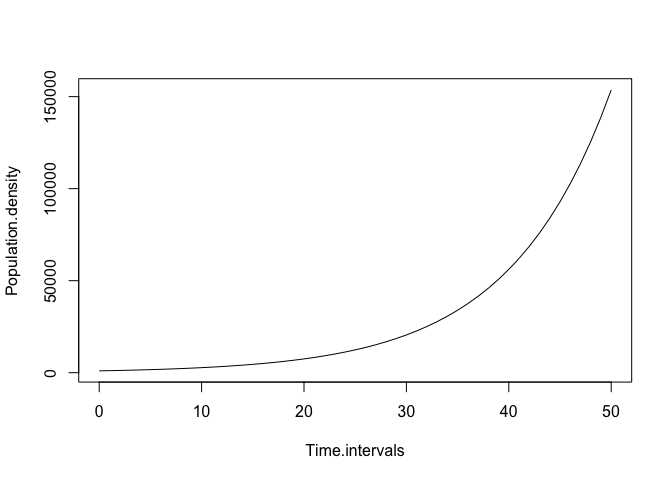
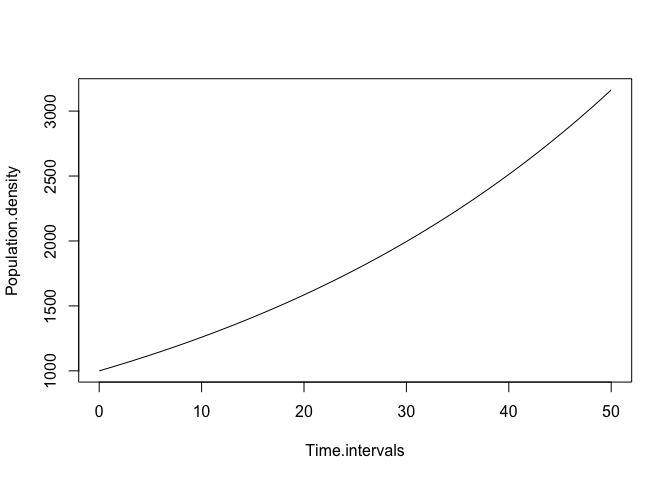
rebuilding readme with fixed stochastic and deterministic models

diff --git a/readme.md b/readme.md
@@ -26,38 +26,40 @@ First we define the different types of transitions between the states:
 
 ``` r
 # probability of staying in the same step between timesteps
-stasis_egg <- tr(eggs ~ eggs, p(0.4))
-stasis_larva <- tr(larvae ~ larvae, p(0.3))
-stasis_adult <- tr(adults ~ adults, p(0.8))
+survival_egg <- tr(eggs ~ eggs, p(0.4))
+survival_larva <- tr(larvae ~ larvae, p(0.3))
+survival_adult <- tr(adults ~ adults, p(0.8))
 
 # probability of moving to the next state
 hatching <- tr(larvae ~ eggs, p(0.5))
 pupation <- tr(adults ~ larvae, p(0.2))
 
-# number of eggs laid
-fecundity <- tr(eggs ~ adults, r(20))
+# probability and number of eggs laid
+prob_laying <- tr(eggs ~ adults, p(0.5))
+fecundity <- tr(eggs ~ adults, r(30))
 ```
 
 Next we can combine these to create dynamics (systems of transitions). We'll make these three different dynamics to start with:
 
 ``` r
-stasis <- dynamic(stasis_egg,
-                  stasis_larva,
-                  stasis_adult)
+survival <- dynamic(survival_egg,
+                  survival_larva,
+                  survival_adult)
 
-growth <- dynamic(hatching,
-                  pupation)
+growth <- dynamic(pupation,
+                  hatching)
 
-reproduction <- dynamic(fecundity)
+# we want the product of these two things, which we might estimate separately
+recruitment <- dynamic(prob_laying * fecundity)
 ```
 
 We can plot each of these to see what they look like schematically:
 
 ``` r
 par(mfrow = c(1, 3))
-plot(stasis); title(main = 'stasis')
+plot(survival); title(main = 'survival')
 plot(growth); title(main = 'growth')
-plot(reproduction); title(main = 'reproduction')
+plot(recruitment); title(main = 'recruitment')
 ```
 
 ![](readme_files/figure-markdown_github/plot_dynamics-1.png)<!-- -->
@@ -65,7 +67,15 @@ plot(reproduction); title(main = 'reproduction')
 These components aren't particularly useful on their own though, so we should combine them into one overall population dynamic:
 
 ``` r
-all <- stasis + growth + reproduction
+# note the careful order here to make sure eggs laid in one time step can't
+# pupate in the same timestep
+all <- dynamic(survival_egg,
+               survival_larva,
+               survival_adult,
+               hatching,
+               prob_laying * fecundity,
+               pupation)
+               
 plot(all)
 ```
 
@@ -82,14 +92,14 @@ A <- as.matrix(all)
 popbio::lambda(A)
 ```
 
-    ## [1] 1.105935
+    ## [1] 1.023296
 
 ``` r
 (ss <- popbio::stable.stage(A))
 ```
 
-    ##       eggs     larvae     adults 
-    ## 0.78353880 0.18096945 0.03549176
+    ##      eggs    larvae    adults 
+    ## 0.7553216 0.1928573 0.0518211
 
 ``` r
 # plot predicted deterministic trajectory
@@ -102,13 +112,19 @@ We can also use the function `simulation` to carry out discrete-time stochastic 
 
 ``` r
 # define the starting population as a named integer vector
-population <- round(ss * 1000)
+(population <- round(ss * 1000))
+```
 
+    ##   eggs larvae adults 
+    ##    755    193     52
+
+``` r
 # simulate 30 times for 50 generations each
 sim <- simulation(dynamic = all,
            population = population,
            timesteps = 50,
-           replicates = 30)
+           replicates = 30,
+           ncores = 1)
 
 # plot abundance of the three life stages
 par(mfrow = c(3, 1))
